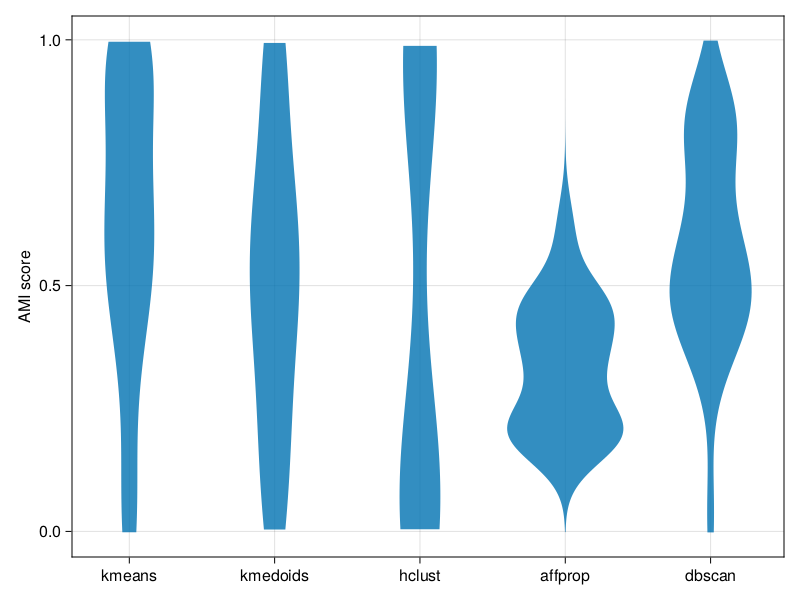
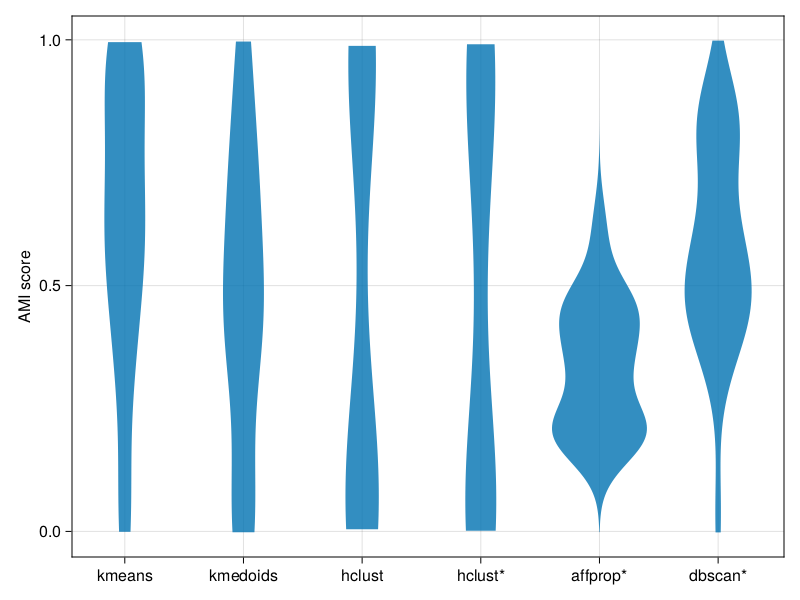
Cleanups to demos

diff --git a/README.md b/README.md
@@ -39,4 +39,10 @@ For these algorithms, any data set with more than 3000 points was excluded. Here
    5 │ dbscan        26
 ```
 
-It is worth noting that with the exception of `dbscan`, all of these algorithms received one or more "hints" from the reference clustering (e.g., the number of clusters). `dbscan`'s hyperparameters were set to have `2d` neighbors in `d` dimensions, and the radius was set as the mean distance to the `2d`th neighbor.
+Algorithms (or variants) marked with a `*` are fully automated, and do not require anything beyond the input data. The remainding algorithms received one or more "hints" from the reference clustering (e.g., the number of clusters).
+Some choices were made for the fully-automated variants:
+
+- `dbscan`'s hyperparameters were set to have `2d` neighbors in `d` dimensions, and the radius was set as the mean distance to the `2d`th neighbor.
+- `hclust*` split at the longest gap between splits in the [dendrogram](https://en.wikipedia.org/wiki/Dendrogram).
+
+There may be more optimal automation strategies than these. In particular, all algorithms can be automated by optimizing [evaluation metrics](https://juliastats.org/Clustering.jl/stable/validate.html), although one still needs to choose, e.g., the range of numbers of clusters considered.
